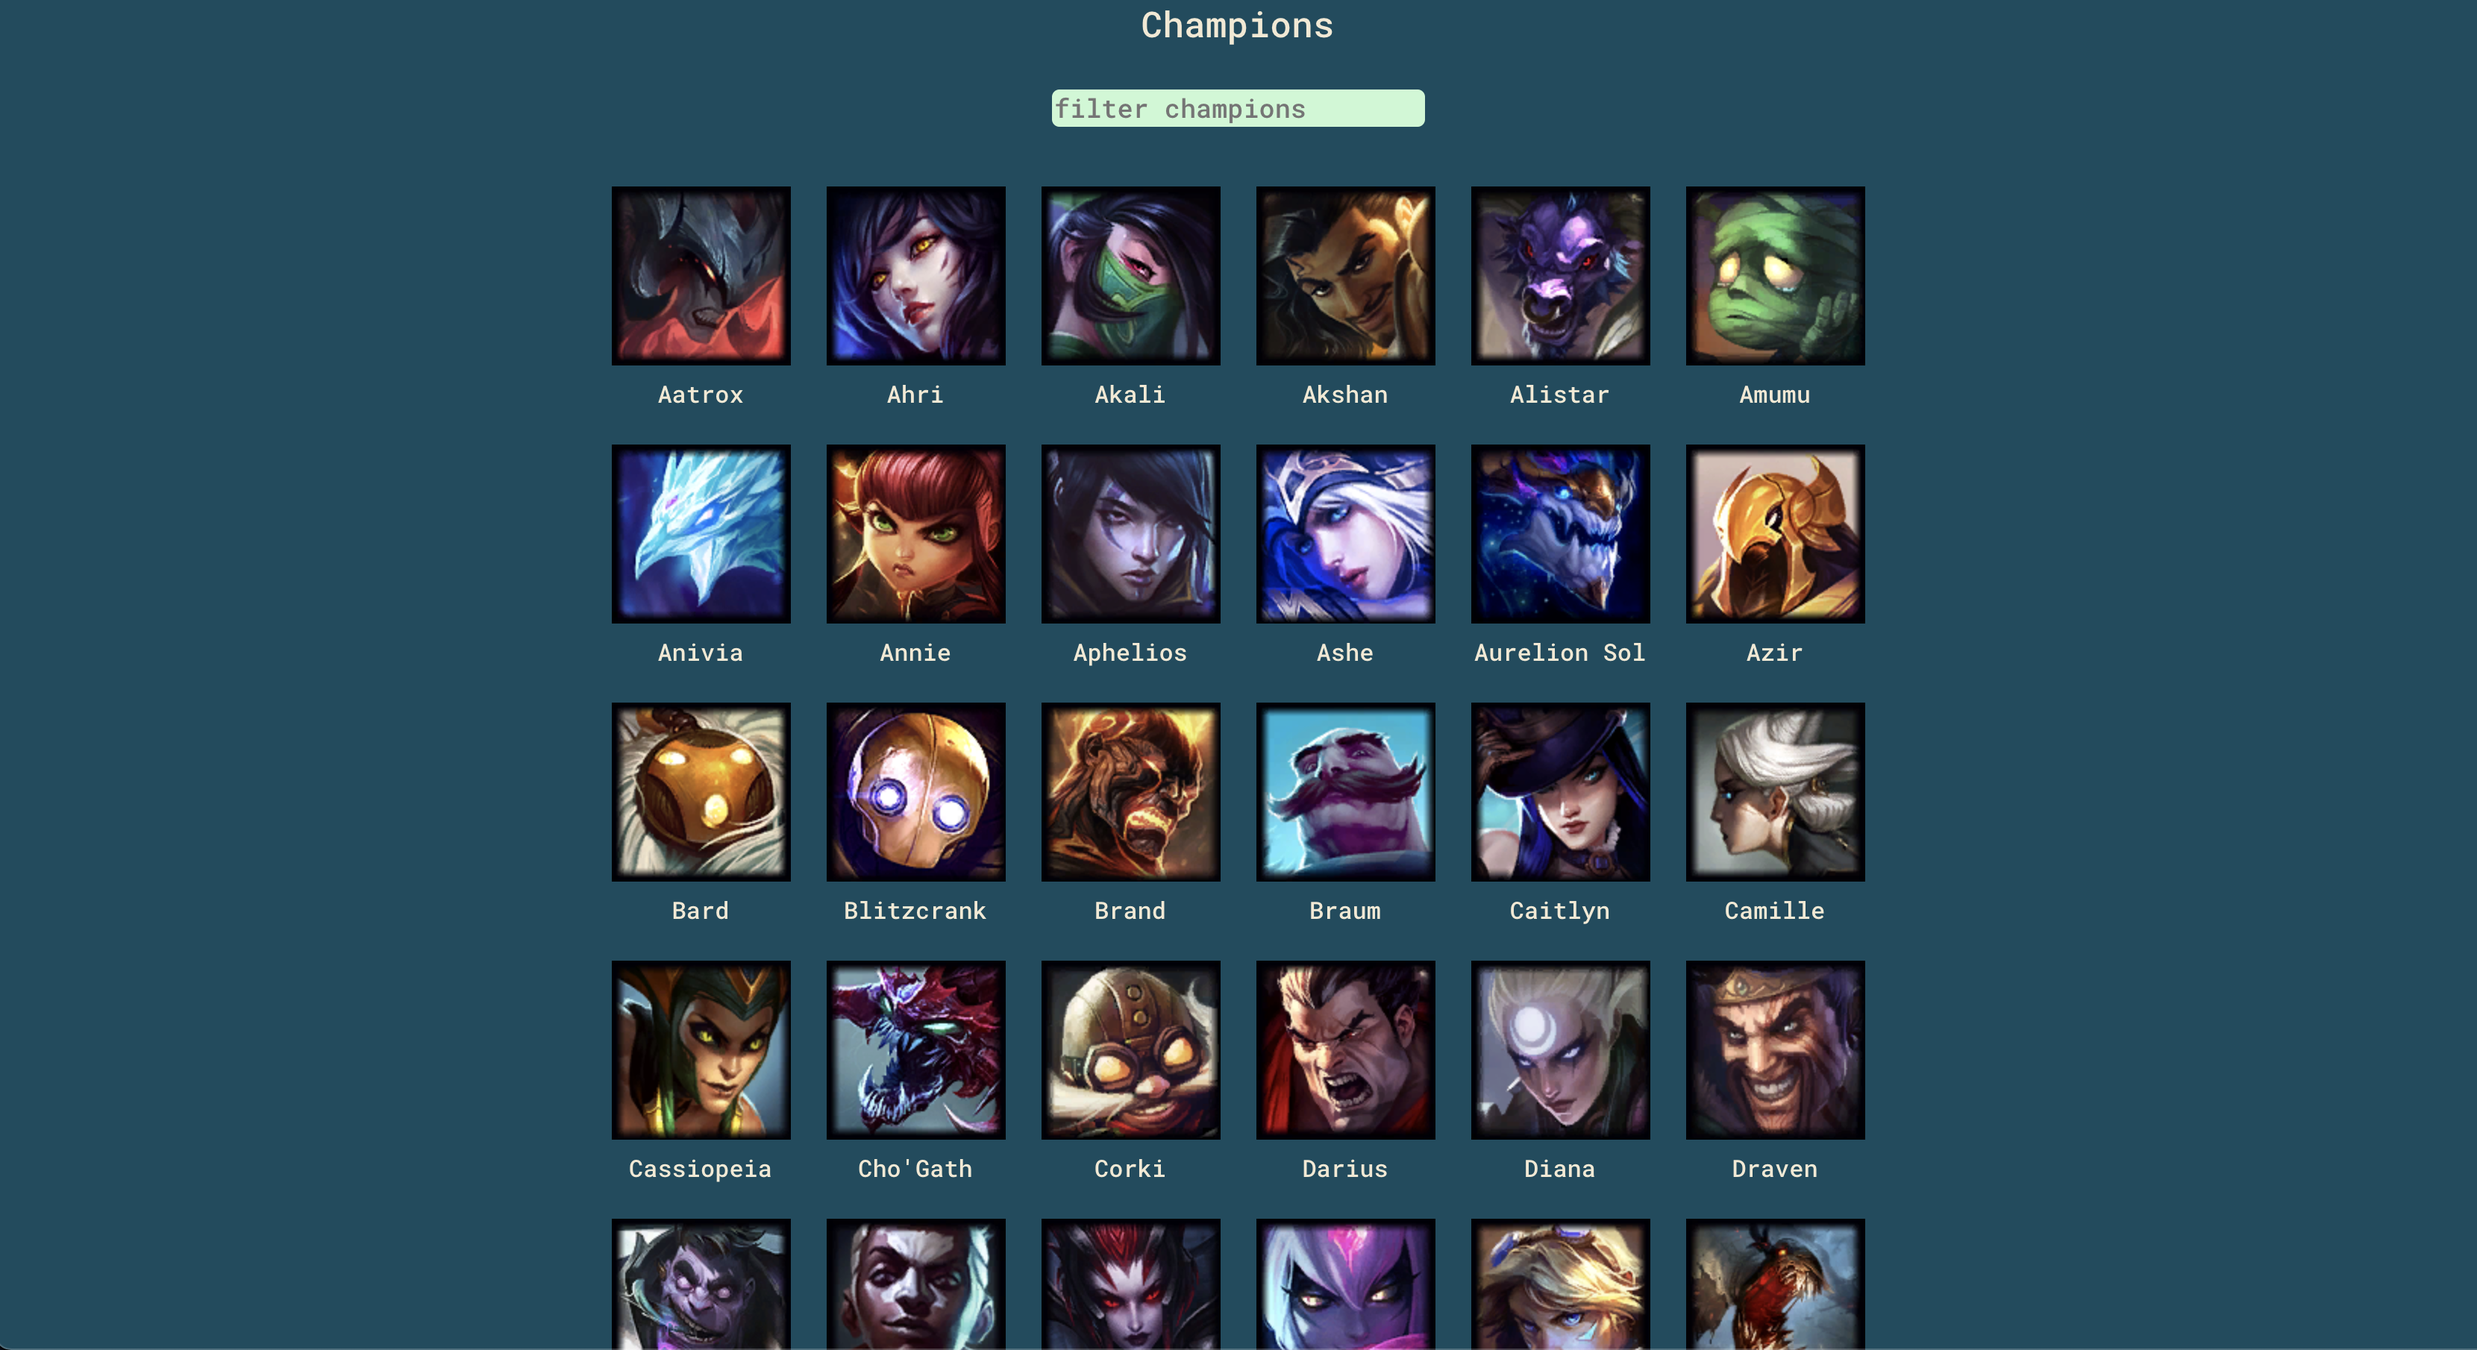
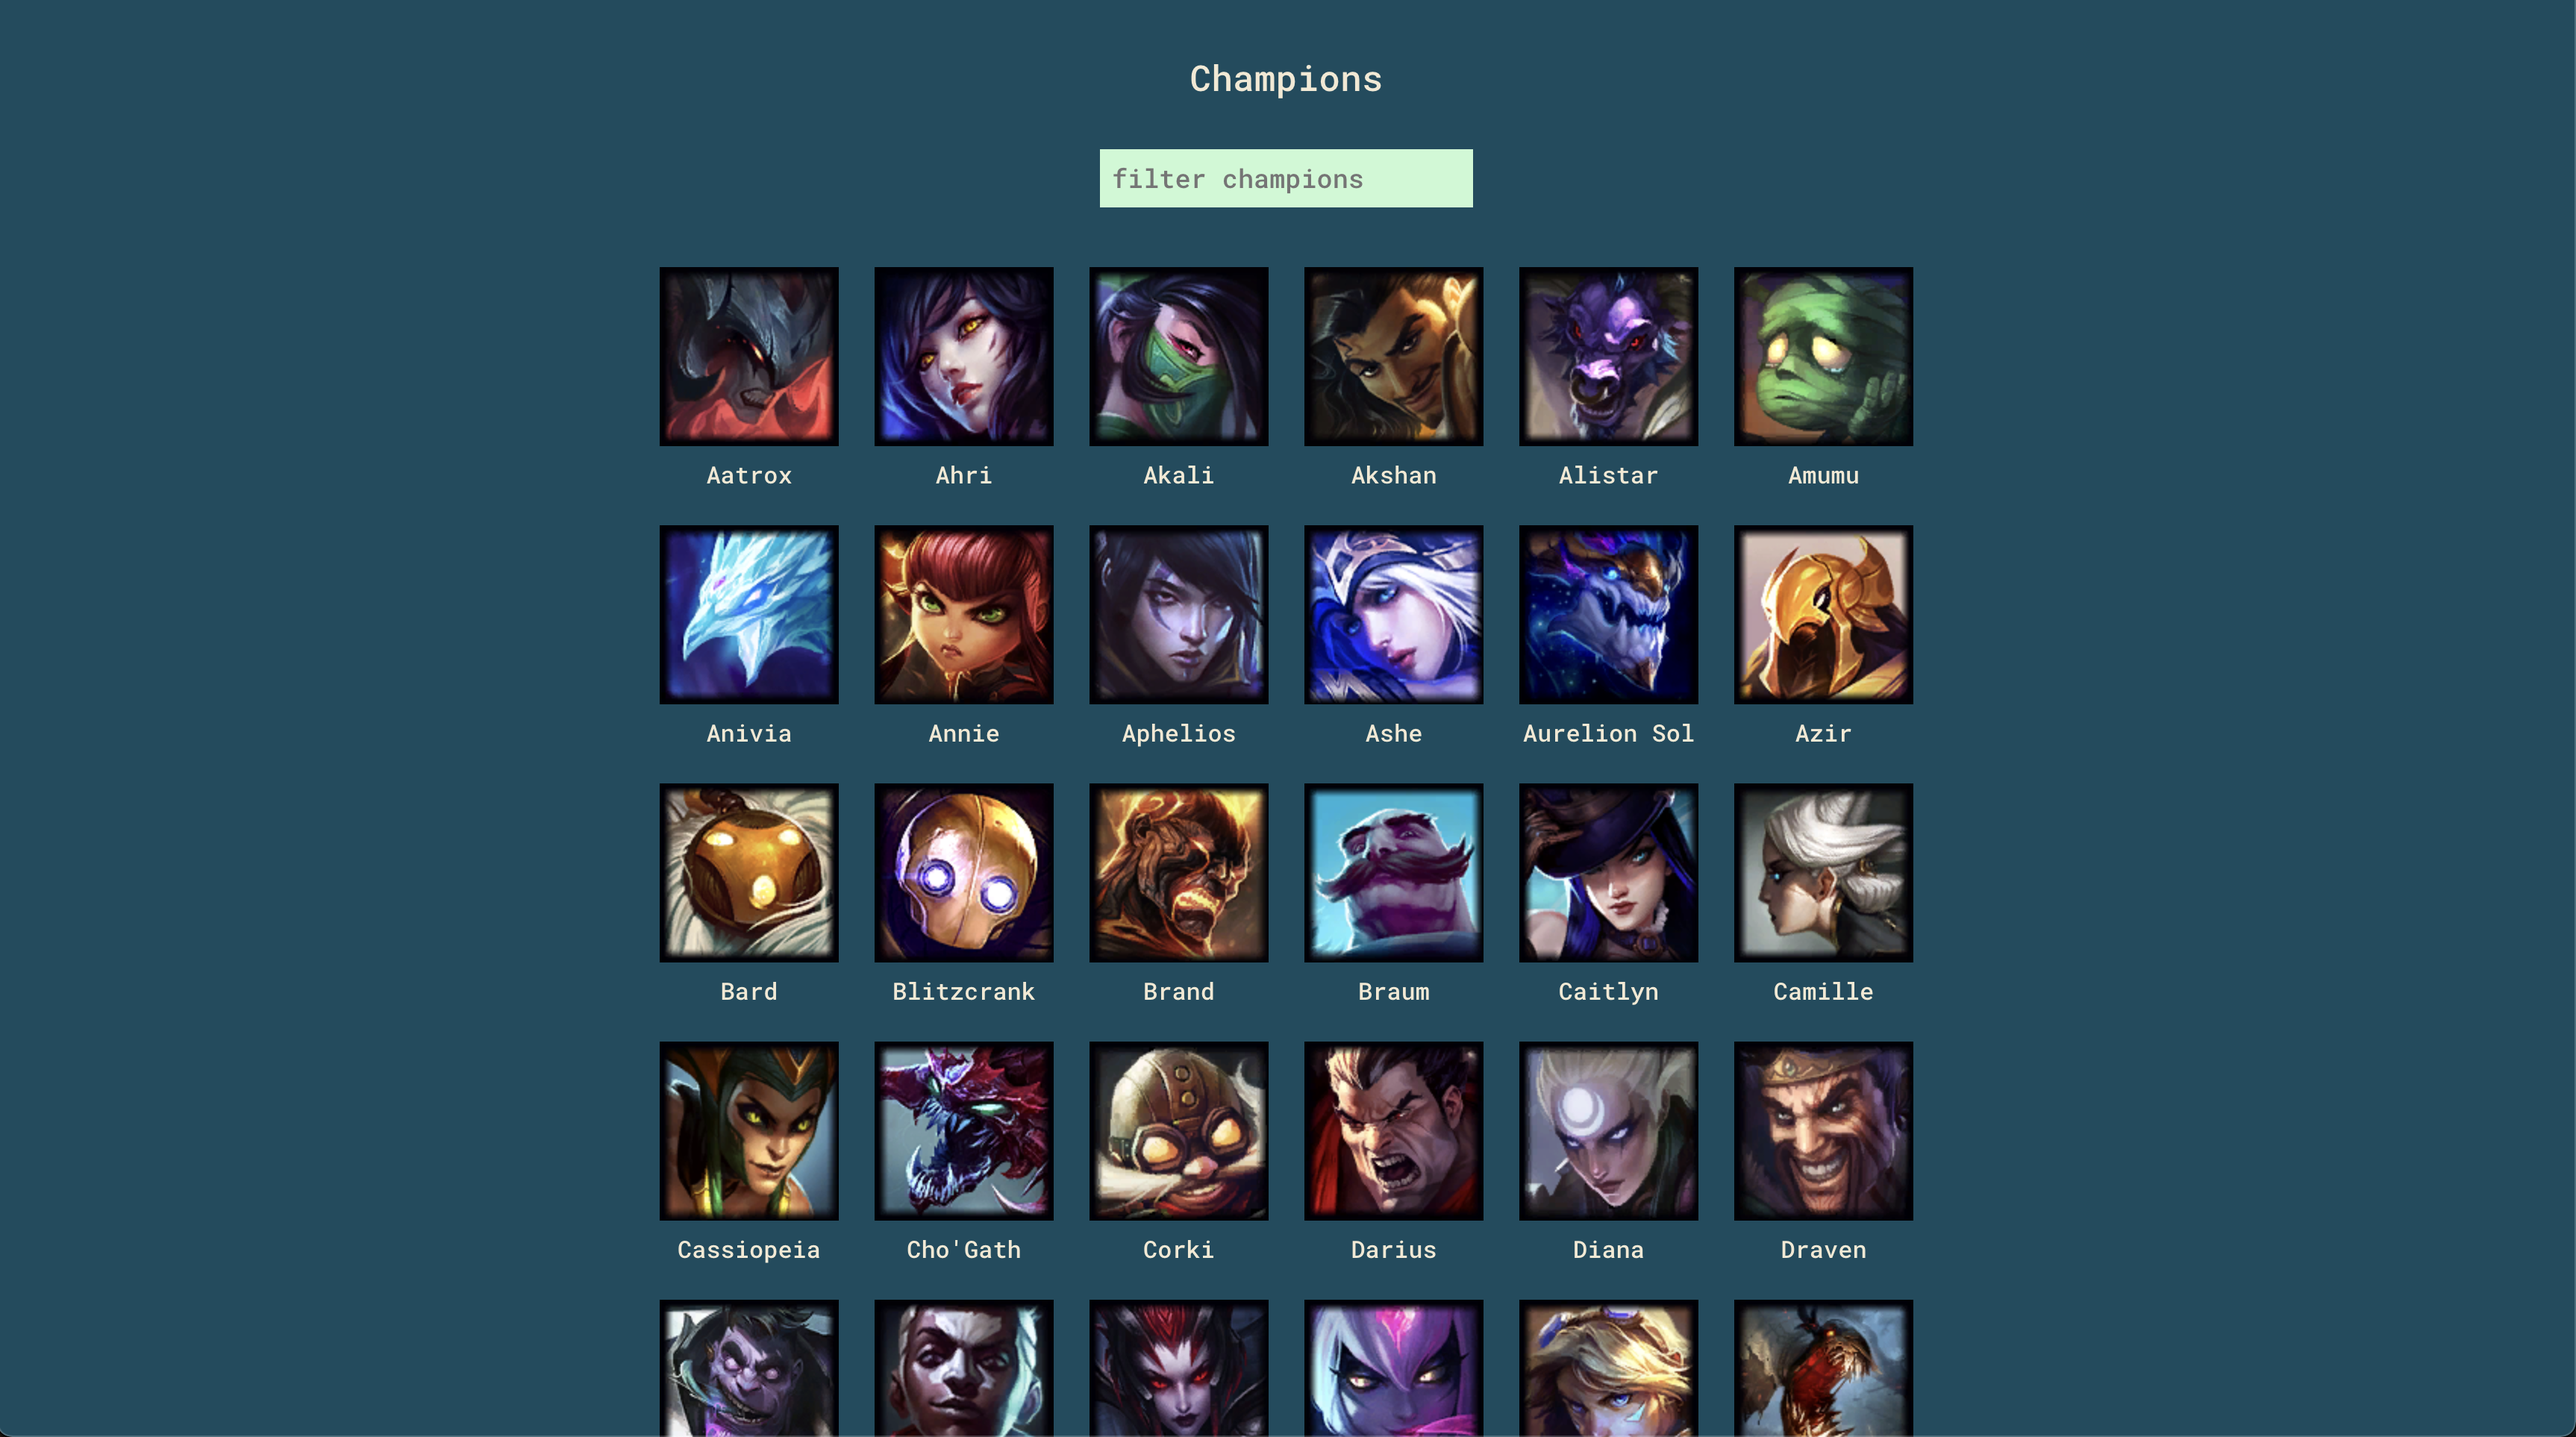
changing image size of project cards image, removing extra code that was not being used in app.js

Changed region(s): [[0.2482, 0.0, 0.7756, 1.0], [0.9928, 0.9901, 1.0, 1.0]]

diff --git a/src/App.js b/src/App.js
@@ -6,17 +6,10 @@ import { Navbar } from './components/Navbar'
 import { About } from './components/About'
 import { Projects } from './components/Projects'
 import { Contact } from './components/Contact'
-import { ProjectDetail } from './components/ProjectDetail'
 import { LolChampions } from './pages/LolChampions'
 import { Salvamex } from './pages/Salvamex'
 
 const App = () => {
-  const [projectPath, setProjectPath] = useState(() =>
-    JSON.parse(localStorage.getItem('project'))
-  )
-  const [currentProject, setCurrentProject] = useState(() =>
-    JSON.parse(localStorage.getItem('current'))
-  )
   const [copied, setCopied] = useState(false)
 
   useEffect(() => {
@@ -24,11 +17,6 @@ const App = () => {
       if (copied) setCopied(false)
     }, 5000)
   }, [copied])
-
-  useEffect(() => {
-    localStorage.setItem('project', JSON.stringify(projectPath))
-    localStorage.setItem('current', JSON.stringify(currentProject))
-  }, [projectPath, currentProject])
 
   return (
     <Wrapper>
@@ -38,23 +26,9 @@ const App = () => {
           path='/contact'
           render={() => <Contact copied={copied} setCopied={setCopied} />}
         />
-        <Route
-          path='/projects'
-          render={() => (
-            <Projects
-              setProjectPath={setProjectPath}
-              setCurrentProject={setCurrentProject}
-            />
-          )}
-        />
-        <Route
-          path='/lol-champions'
-          render={() => <LolChampions currentProject={currentProject} />}
-        />
-        <Route
-          path='/salvamex'
-          render={() => <Salvamex currentProject={currentProject} />}
-        />
+        <Route path='/projects' render={() => <Projects />} />
+        <Route path='/lol-champions' render={() => <LolChampions />} />
+        <Route path='/salvamex' render={() => <Salvamex />} />
         <Route exact path='/' render={() => <About />} />
       </Switch>
       <GlobalStyles />

diff --git a/src/components/ProjectCard.js b/src/components/ProjectCard.js
@@ -5,12 +5,7 @@ import { ChevronsRight } from 'react-feather'
 import Lol from '../Assets/images/lol-champions-screenshot.png'
 import salvamex from '../Assets/images/salvamex.png'
 
-export const ProjectCard = ({
-  setProjectPath,
-  details,
-  setCurrentProject,
-  photo,
-}) => {
+export const ProjectCard = ({ details }) => {
   return (
     <Wrapper>
       <ImageWrapper>
@@ -21,13 +16,7 @@ export const ProjectCard = ({
       </ImageWrapper>
       <ProjectTitle>{details.title}</ProjectTitle>
       <ProjectText>{details.description}</ProjectText>
-      <Details
-        to={details.id === 0 ? 'lol-champions' : 'Salvamex'}
-        onClick={() => {
-          setCurrentProject(details.view)
-          setProjectPath(details.name)
-        }}
-      >
+      <Details to={details.id === 0 ? 'lol-champions' : 'Salvamex'}>
         <LinkText>View Details</LinkText>
         <Chevrons />
       </Details>

diff --git a/src/components/Projects.js b/src/components/Projects.js
@@ -4,17 +4,11 @@ import { ProjectCard } from './ProjectCard'
 import Blank from '../Assets/images/blank.png'
 import { projectsArr } from '../data/data'
 
-export const Projects = ({ setProjectPath, setCurrentProject }) => {
+export const Projects = () => {
   return (
     <Wrapper>
       {projectsArr.map((value, index) => (
-        <ProjectCard
-          key={index}
-          setProjectPath={setProjectPath}
-          details={value}
-          setCurrentProject={setCurrentProject}
-          photo={Blank}
-        />
+        <ProjectCard key={index} details={value} photo={Blank} />
       ))}
     </Wrapper>
   )
